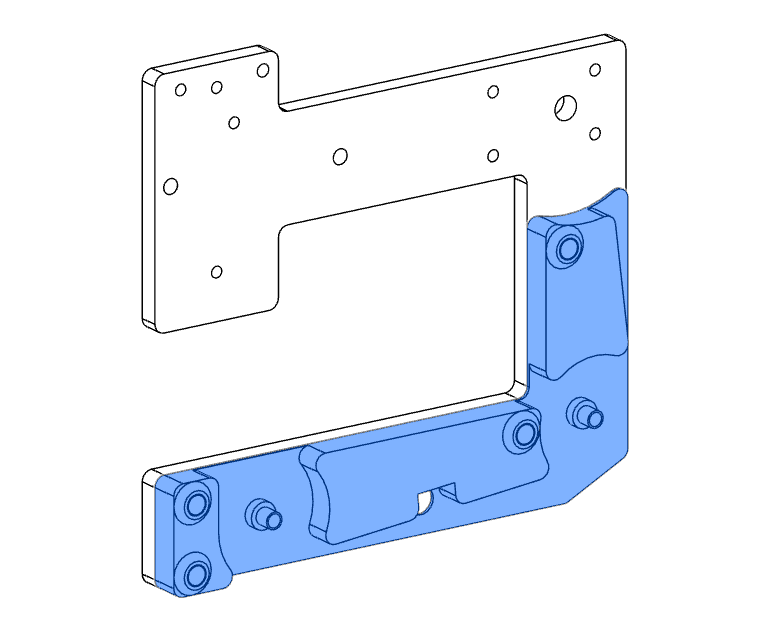
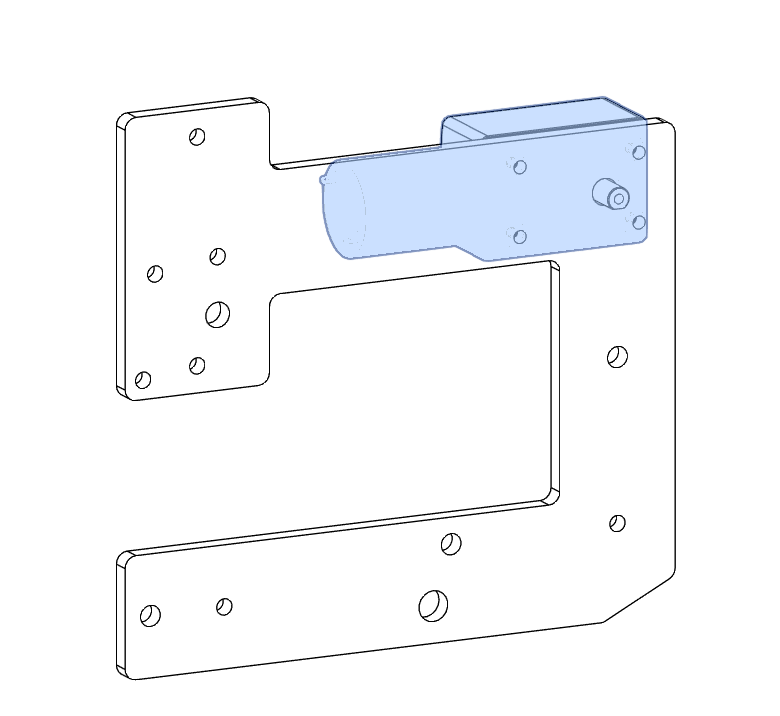
Pics in prog

diff --git a/docs/wire-tool-v1.1/user-manual/index.md b/docs/wire-tool-v1.1/user-manual/index.md
@@ -193,7 +193,7 @@ Requires:
 ![Idler_Assm](images/ASSM_Idler_1.png)
 ![Idler_Assm](images/ASSM_Idler_2.png)
 
-**ALERT.** While bearing fit may be slightly tight, it is advised to add a small amount of superglue here prior to installation. Apply light coating only on interior walls of Idler print. This will ensure retention through the life of the bearing. Bearings will corrode over time. Extras have been included in the Wire Tool Kit.
+**ALERT.** While bearing fit may be slightly tight, it is advised to add a small amount of superglue here prior to installation. Apply light coating only on interior walls of Idler print. This will ensure retention through the life of the bearing. Bearings will corrode over time.
 
 ![Idler_Assm](images/ASSM_Idler_3.png)
 ![Idler_Assm](images/ASSM_Idler_4.png)
@@ -246,9 +246,11 @@ Complete the mechanical assembly of the WT-01 in accordance with the following i
 ### Front Lower Base
 Requires:
 - Endoskeleton
-- Front Lower Base Print
+- Front Base Print
 - Idler Assembly (2x)
-- M4x16 Countersunk Screw (2x)
+- JGY-370 Motor
+- M3x8 BHCS (5x)
+- M5x16 Countersunk Screw (5x)
 
 ![Front_Lower_Base_Assm](images/ASSM_Front_Lower_Base_1.png)
 ![Front_Lower_Base_Assm](images/ASSM_Front_Lower_Base_2.png)
@@ -262,6 +264,9 @@ When replacing idler bearings, this deformation will prevent removal. Either rep
 
 ![Front_Lower_Base_Assm](images/ASSM_Front_Lower_Base_6.png)
 ![Front_Lower_Base_Assm](images/ASSM_Front_Lower_Base_7.png)
+![Front_Lower_Base_Assm](images/ASSM_Front_Lower_Base_8.png)
+![Front_Lower_Base_Assm](images/ASSM_Front_Lower_Base_9.png)
+![Front_Lower_Base_Assm](images/ASSM_Front_Lower_Base_10.png)
 
 ### Back Lower Base
 Requires:
